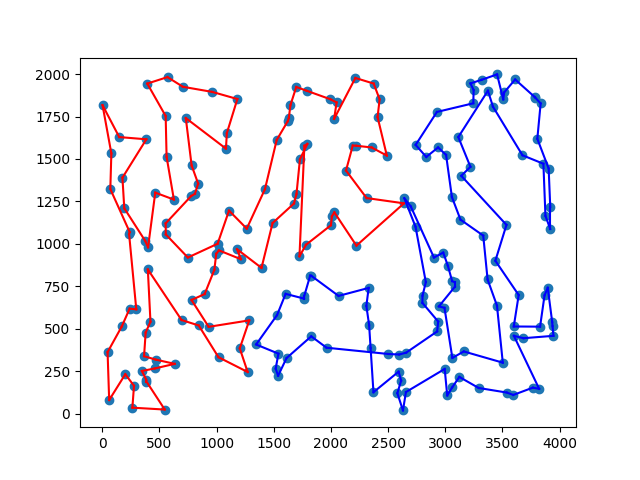
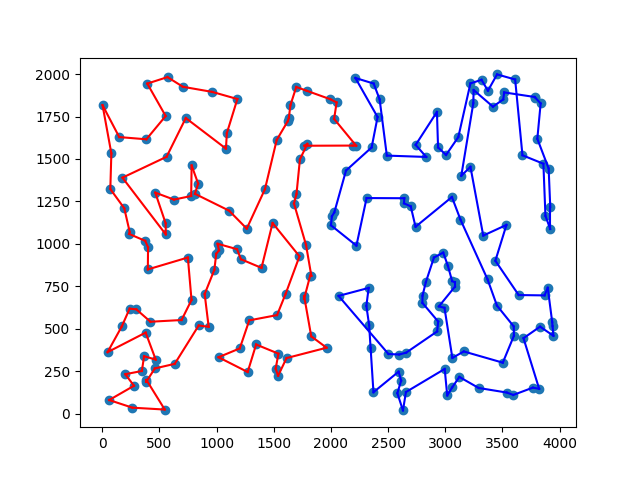
Add weighted version for split_regret algorithm and its visual representation.

diff --git a/TSP_heuristic/src/algo/split_regret.py b/TSP_heuristic/src/algo/split_regret.py
@@ -1,4 +1,4 @@
-def split_paths_regret_TSP(distances, starting_nodes):
+def split_paths_regret_TSP(distances, starting_nodes, use_weights=False):
     n = len(distances)
 
     start1, start2 = starting_nodes
@@ -26,7 +26,7 @@ def split_paths_regret_TSP(distances, starting_nodes):
                     assigned.add(node)
                     break
 
-    def two_regret_heuristic(path, nodes, distances):
+    def two_regret_heuristic(path, nodes, distances, use_weights=False, w1=1, w2=-1):
         visited = set(path)
         while len(path) < len(nodes) + 1:
             # to +1 powoduje, że nie omijamy żadnego miasta ;) bo zaczynamy z startowym 2 razy, żeby domknąć cykl
@@ -46,7 +46,10 @@ def split_paths_regret_TSP(distances, starting_nodes):
                 insertion_costs.sort()
 
                 if len(insertion_costs) > 1:
-                    regret = insertion_costs[1][0] - insertion_costs[0][0]
+                    if use_weights:
+                        regret = w1 * insertion_costs[1][0] - w2 * insertion_costs[0][0]
+                    else:
+                        regret = insertion_costs[1][0] - insertion_costs[0][0]
                 else:
                     regret = float('inf')
 
@@ -64,9 +67,12 @@ def split_paths_regret_TSP(distances, starting_nodes):
     # Debug prints
     # print("nodes1 len = ", len(nodes1))
     # print("nodes2 len = ", len(nodes2))
-    path1 = two_regret_heuristic([start1, start1], nodes1, distances)
-    path2 = two_regret_heuristic([start2, start2], nodes2, distances)
+    path1 = two_regret_heuristic([start1, start1], nodes1, distances, use_weights)
+    path2 = two_regret_heuristic([start2, start2], nodes2, distances, use_weights)
     # print("path1 len = ", len(path1))
     # print("path2 len = ", len(path2))
 
     return path1, path2
+
+def weighted_split_paths_regret_TSP(distances, starting_nodes):
+    return split_paths_regret_TSP(distances, starting_nodes, use_weights=True)

diff --git a/TSP_heuristic/src/main.py b/TSP_heuristic/src/main.py
@@ -9,7 +9,7 @@ from algo.regret_first import two_regret, weighted_two_regret
 #from algo.our_own_genetic import genetic_2tsp
 #from algo.regret_new import two_regret_global
 #from algo.regret_new_balanced import two_regret_global_balanced
-from algo.split_regret import split_paths_regret_TSP
+from algo.split_regret import split_paths_regret_TSP, weighted_split_paths_regret_TSP
 
 
 def show_paths(data, path1, path2, save_path=None, show=False):
@@ -72,7 +72,8 @@ if __name__ == '__main__':
         # genetic_2tsp, # to była okropna pomyłka, tam nie patrzeć
         # two_regret_global,
         # two_regret_global_balanced,
-        split_paths_regret_TSP
+        split_paths_regret_TSP,
+        weighted_split_paths_regret_TSP,
     ]
 
     results = {}
